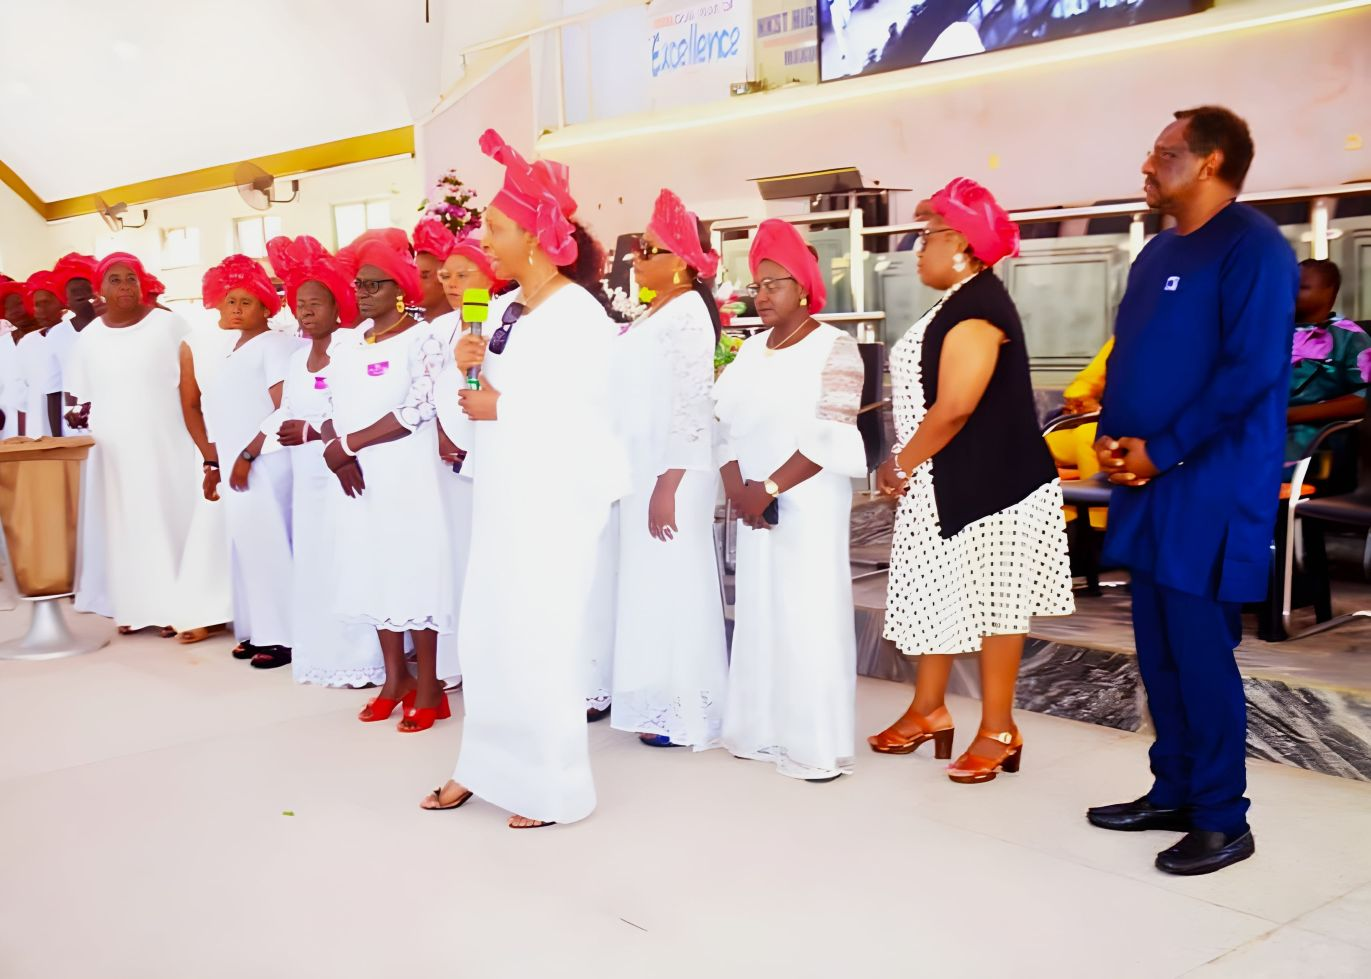
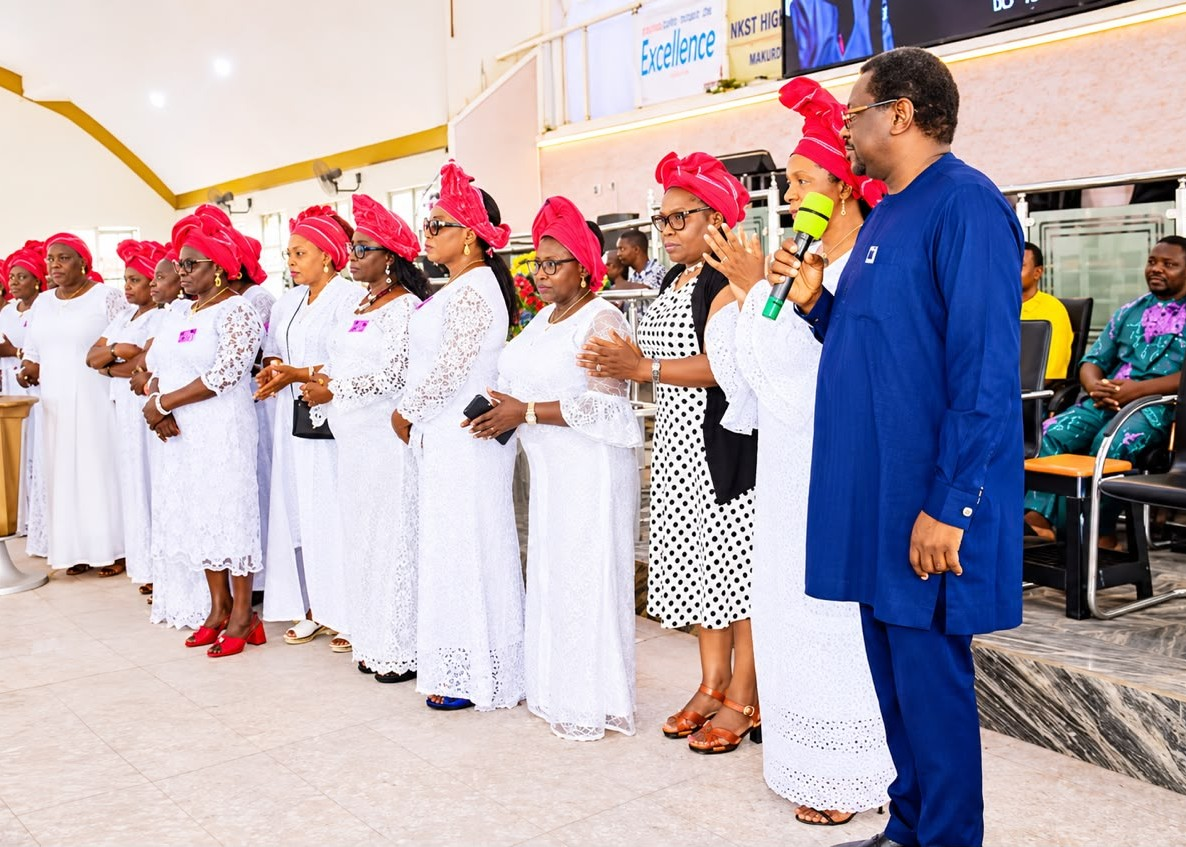
updated the thanksgiving images + added donate section on index

diff --git a/index.html b/index.html
@@ -294,6 +294,18 @@
               padding: 2rem 1.25rem;
           }
       }
+
+      #donate .card {
+          border: none;
+          border-radius: 1rem;
+          overflow: hidden;
+          transition: transform 0.4s ease, box-shadow 0.4s ease;
+      }
+
+      #donate .card:hover {
+          transform: scale(1.03);
+          box-shadow: 0 10px 25px rgba(0, 0, 0, 0.5);
+      }
     </style>
 </head>
 <!-- Google tag (gtag.js) -->
@@ -430,6 +442,37 @@
           </p>
         </div>
     </div>
+    </div>
+  </section>
+
+  <!-- Donate / Support -->
+  <section id="donate" class="py-5 bg-white" data-aos="fade-up" data-aos-delay="200">
+    <div class="container py-5">
+      <div class="row align-items-center">
+        <div class="col-lg-6">
+          <h1 class="fw-bold heading bbc-pink-text">Support Our Work</h1>
+          <p class="lead">Your gift helps pay for screening, treatment support loans, transport for patients and community education campaigns.</p>
+          <div class="card bbc-pink-bg text-white my-4 shadow-none">
+            <div class="card-body">
+              <p class="lh-lg lead">
+                <strong class="text-uppercase">Bank Transfer</strong>
+                <br>
+                Account name: Benue Breast Cancer Support Initiative
+                <br>
+                Account number: <span class="fw-bold">1808708097</span>
+                <button type="button" class="btn btn-sm btn-outline-light ms-2" onclick="(function(btn){const num='1808708097';navigator.clipboard.writeText(num).then(()=>{const prev=btn.innerText;btn.innerText='Copied';btn.disabled=true;setTimeout(()=>{btn.innerText=prev;btn.disabled=false;},1500);}).catch(()=>{alert('Unable to copy to clipboard')});})(this);">Copy</button>
+                <br>
+                Bank Name: Access Bank
+              </p>
+            </div>
+          </div>
+          <p class="mb-0 fw-light small mb-4 d-none d-lg-block"><strong class="bbc-pink-text fw-bold">Note: </strong> Non-Naira donations can be made using <a href="https://www.sendwave.com/en" target="_blank">Sendwave</a> and <a href="https://www.westernunion.com/ng" target="_blank">Western Union</a> or any other available to the donor. <br>Kindly send a confirmation email to <a href="mailto:Benuecancergroup@gmail.com">Benuecancergroup@gmail.com</a> with your transaction details to help us acknowledge your donation.</p>
+        </div>
+        <div class="col-lg-1"></div>
+        <div class="col-lg-5">
+          <img src="assets/img/outreach-3.png" class="img-fluid w-100 rounded-4" alt="">
+        </div>
+      </div>
     </div>
   </section>
 
